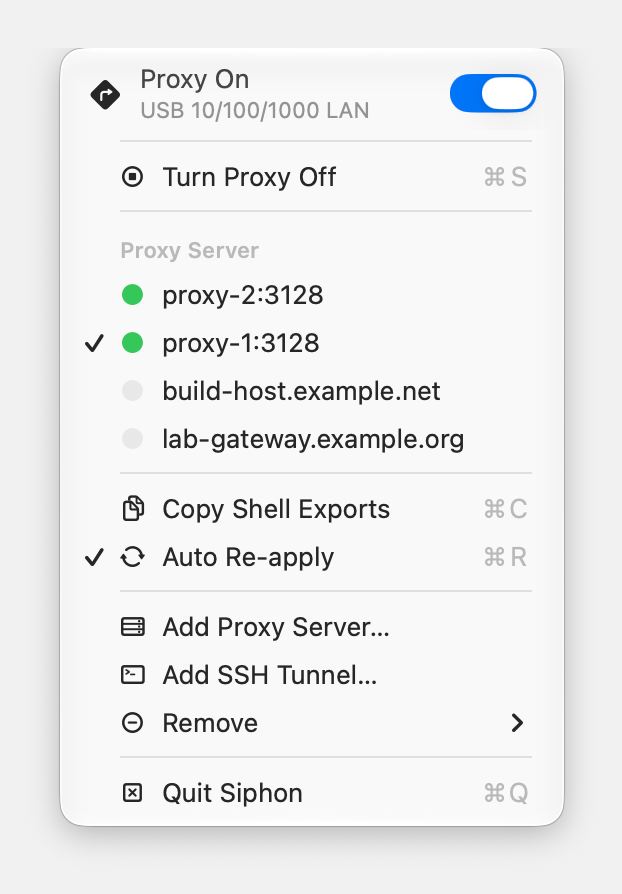
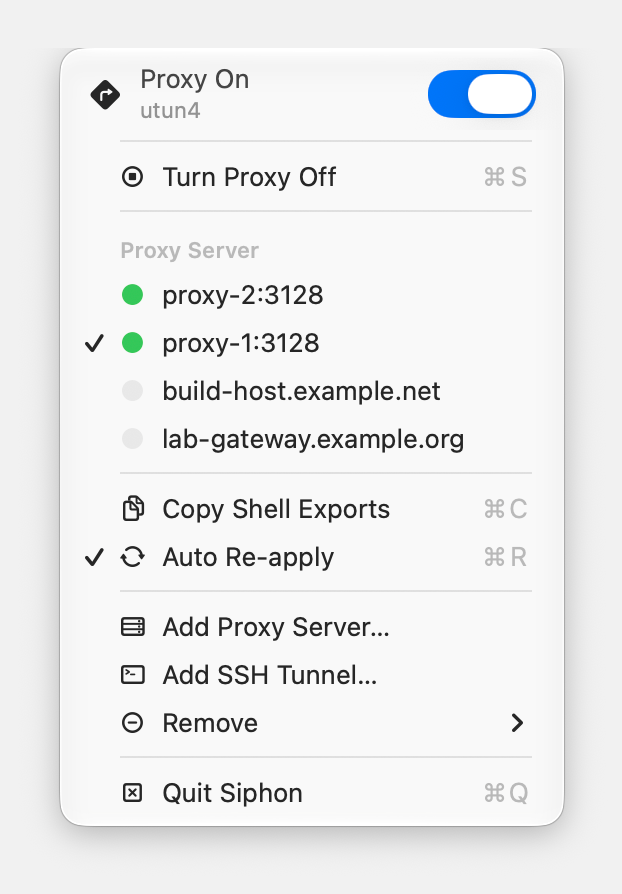
Header switch at its native size: scaling broke the glass switch
The switch was shrunk to 80% with scaleUnitSquare. The Liquid Glass
NSSwitch draws its knob as a glass lens outside the scaled bounds, so in
the menu it showed a stray ring and a knob displaced off its track. The
switch now draws exactly as AppKit ships it, unscaled and unwrapped.

Changed region(s): [[0.2138, 0.0906, 0.5193, 0.151], [0.672, 0.0604, 0.8553, 0.151], [0.5498, 0.0906, 0.5804, 0.151]]

diff --git a/Sources/Siphon/AppDelegate.swift b/Sources/Siphon/AppDelegate.swift
@@ -27,8 +27,6 @@ final class AppDelegate: NSObject, NSApplicationDelegate, NSMenuDelegate {
     private var serverItems: [NSMenuItem] = []
     /// Internal so the screenshot harness can seed states for example hosts.
     let reachability = ServerReachability()
-    /// 54x24 down to 43x19 — proportionate to a menu row.
-    private static let switchScale: CGFloat = 0.8
     /// Internal so the screenshot harness can pop up the real menu.
     var menu: NSMenu!
 
@@ -194,16 +192,11 @@ final class AppDelegate: NSObject, NSApplicationDelegate, NSMenuDelegate {
         toggle.setAccessibilityLabel("Proxy")
         toggle.sizeToFit()
 
-        // NSSwitch ignores controlSize — it is a fixed 54x24 at every setting,
-        // which is chunky next to 13pt menu text. Scaling the view's unit square
-        // shrinks the frame while the switch keeps drawing into its full 54x24
-        // bounds, so the artwork stays vector-sharp rather than being a
-        // resampled bitmap.
-        let natural = toggle.frame.size
-        toggle.scaleUnitSquare(to: NSSize(width: Self.switchScale, height: Self.switchScale))
-        let switchSize = NSSize(width: (natural.width * Self.switchScale).rounded(),
-                                height: (natural.height * Self.switchScale).rounded())
-        toggle.setFrameSize(switchSize)
+        // Left at its native size and drawing. Scaling it (scaleUnitSquare, as
+        // before) breaks the Liquid Glass switch: its knob is a glass lens
+        // drawn outside the scaled bounds, which showed as a stray ring and a
+        // knob drawn off the track.
+        let switchSize = toggle.frame.size
         toggle.setFrameOrigin(NSPoint(x: width - switchSize.width - margin,
                                       y: ((height - switchSize.height) / 2).rounded()))
         toggle.autoresizingMask = [.minXMargin]
